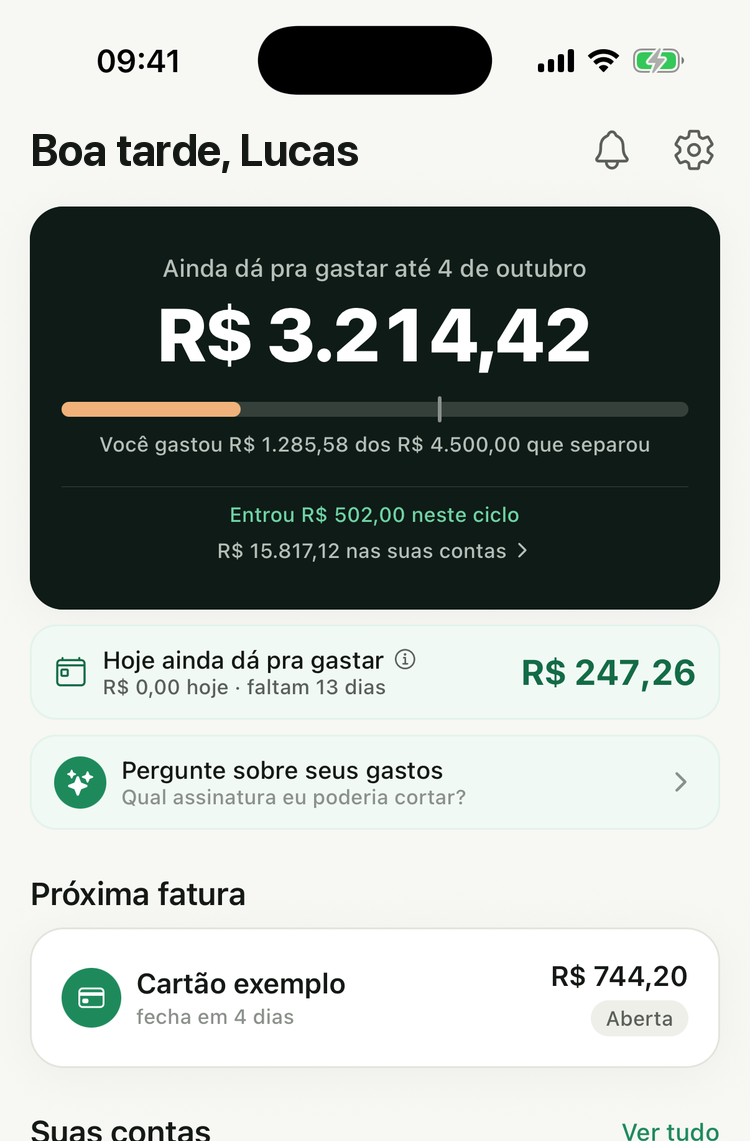
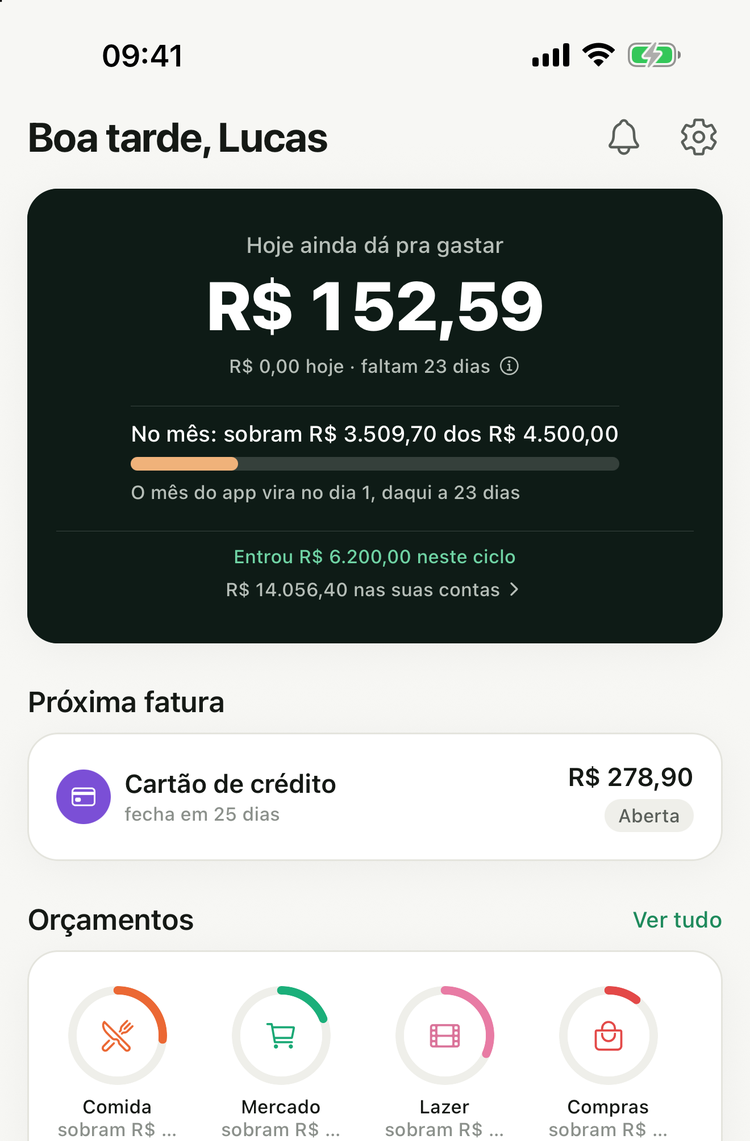
Captura nova da tela inicial e link para a App Store
Claude-Session: https://claude.ai/code/session_01XvnsGkGYL6GFakKLQwDZeK

diff --git a/es/index.html b/es/index.html
@@ -60,7 +60,7 @@
           </a>
           <a class="btn btn-linha" href="#como">Ver cómo funciona</a>
         </div>
-        <p class="nota">Muy pronto en la App Store y en Google Play.</p>
+        <p class="nota"><a href="https://apps.apple.com/app/id6811387568">Disponible en la App Store</a>. Muy pronto en Google Play.</p>
 
          </div>
 
@@ -328,7 +328,7 @@
         <a class="btn btn-verde" href="#preco">Descargar gratis
           <svg viewBox="0 0 24 24" fill="none" stroke="currentColor" stroke-width="2" stroke-linecap="round" stroke-linejoin="round" aria-hidden="true"><path d="M5 12h14M13 6l6 6-6 6"/></svg>
         </a>
-        <p class="nota">Muy pronto en la App Store y en Google Play · cancela cuando quieras</p>
+        <p class="nota"><a href="https://apps.apple.com/app/id6811387568">Disponible en la App Store</a> · muy pronto en Google Play · cancela cuando quieras</p>
       </div>
     </section>
   </main>

diff --git a/en/index.html b/en/index.html
@@ -60,7 +60,7 @@
           </a>
           <a class="btn btn-linha" href="#como">See how it works</a>
         </div>
-        <p class="nota">Coming soon to the App Store and Google Play.</p>
+        <p class="nota"><a href="https://apps.apple.com/app/id6811387568">Available on the App Store</a>. Coming soon to Google Play.</p>
 
          </div>
 
@@ -328,7 +328,7 @@
         <a class="btn btn-verde" href="#preco">Download free
           <svg viewBox="0 0 24 24" fill="none" stroke="currentColor" stroke-width="2" stroke-linecap="round" stroke-linejoin="round" aria-hidden="true"><path d="M5 12h14M13 6l6 6-6 6"/></svg>
         </a>
-        <p class="nota">Coming soon to the App Store and Google Play · cancel anytime</p>
+        <p class="nota"><a href="https://apps.apple.com/app/id6811387568">Available on the App Store</a> · coming soon to Google Play · cancel anytime</p>
       </div>
     </section>
   </main>

diff --git a/index.html b/index.html
@@ -59,7 +59,7 @@
           </a>
           <a class="btn btn-linha" href="#como">Ver como funciona</a>
         </div>
-        <p class="nota">Em breve na App Store e no Google Play.</p>
+        <p class="nota"><a href="https://apps.apple.com/app/id6811387568">Disponível na App Store</a>. Em breve no Google Play.</p>
 
          </div>
 
@@ -327,7 +327,7 @@
         <a class="btn btn-verde" href="#preco">Baixar grátis
           <svg viewBox="0 0 24 24" fill="none" stroke="currentColor" stroke-width="2" stroke-linecap="round" stroke-linejoin="round" aria-hidden="true"><path d="M5 12h14M13 6l6 6-6 6"/></svg>
         </a>
-        <p class="nota">Em breve na App Store e no Google Play · cancele quando quiser</p>
+        <p class="nota"><a href="https://apps.apple.com/app/id6811387568">Disponível na App Store</a> · em breve no Google Play · cancele quando quiser</p>
       </div>
     </section>
   </main>
